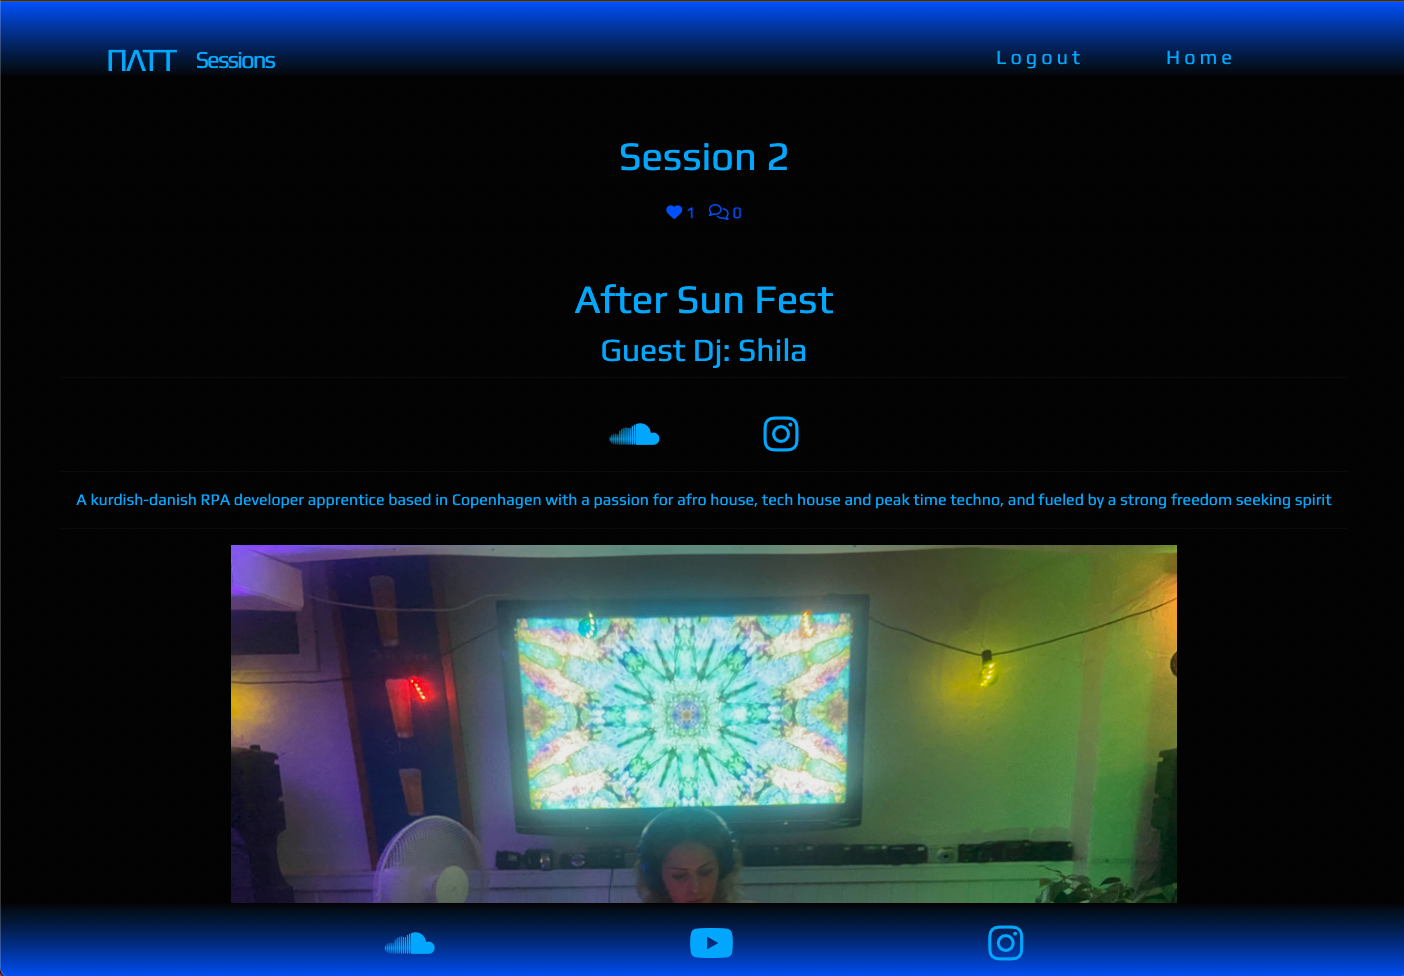
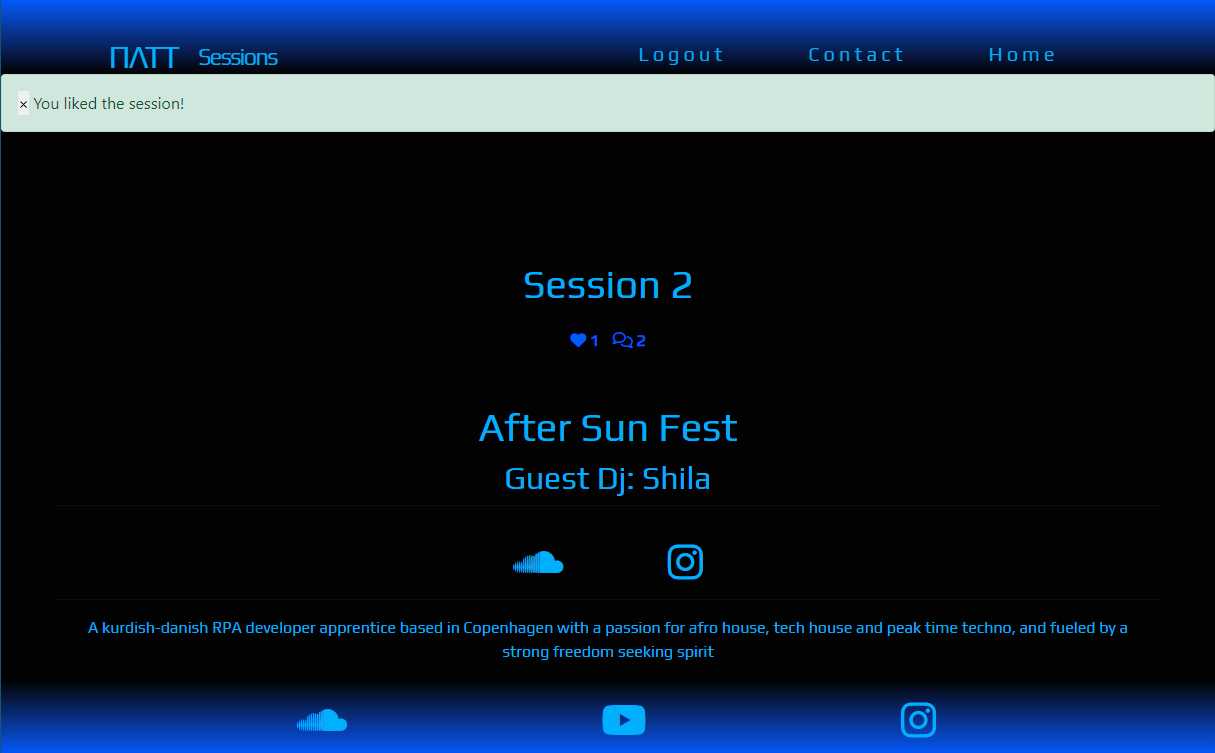
Fix dislake message

diff --git a/events/views.py b/events/views.py
@@ -82,10 +82,10 @@ class PostLike(View):
         post = get_object_or_404(Post, slug=slug)
         if post.likes.filter(id=request.user.id).exists():
             post.likes.remove(request.user)
-            messages.success(request, "You don't like the session anymoer :(")
+            messages.success(request, "You don't like the session anymore :(")
         else:
             post.likes.add(request.user)
-            messages.success(request, "You liked the session!")
+            messages.success(request, "You liked the session :)!")
         return HttpResponseRedirect(reverse('post_detail', args=[slug]))
 
 

diff --git a/README.md b/README.md
@@ -213,12 +213,12 @@ Redirect to home after sign out with message.
  
 ![Event post intro plus like option](/assets/readme-images/session2-1.png)
 
-Event first view liked by the user.
+Session first view liked by the user and message.
 
 
 ![Home page with like](/assets/readme-images/home-like.png)
 
-Home page with like.
+Session first view liked by the user and message.
 
 
 ![Event guest dj video and audio](/assets/readme-images/session2-2.png)
